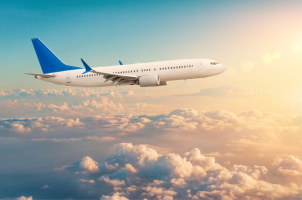
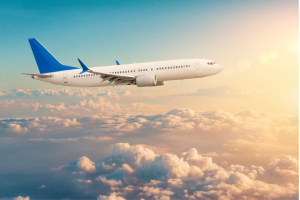
Update images

diff --git a/assignment-09/index.html b/assignment-09/index.html
@@ -43,7 +43,7 @@
         </div>
         <div id="step2" class="container">
             <h1>Step 2: Transportation</h1>
-            <img src="images/plane.png" alt="Plane flying" width="400" height="200">
+            <img src="images/plane.png" alt="Plane flying" width="300" height="200">
             <ul>
                 <li>If flying:</li>
                     <ul>
@@ -61,7 +61,7 @@
         </div>
         <div>
             <h1>Step 3: Plan Your Itinerary</h1>
-            <img src="images/notebook.png" alt="Notebook, pencil, and laptop" width="400" height="200">
+            <img src="images/notebook.png" alt="Notebook, pencil, and laptop" width="600" height="600">
             <ul>
                 <li>Use your chosen research method to find restaurants, attractions, and activities</li>
                 <li>Create your itineray in your chosen place for notes</li>
@@ -74,7 +74,7 @@
         </div>
         <div>
             <h1>Step 4: Packing</h1>
-            <img src="images/suitcase.png" alt="suitcase" width="400" height="200">
+            <img src="images/suitcase.png" alt="suitcase" width="200" height="400">
             <ul>
                 <li>Make packing lists for each of your bags: personal bag, carry-on, check-on(if you have one)</li>
                 <li>Pack anything you can the day before your trip</li>
